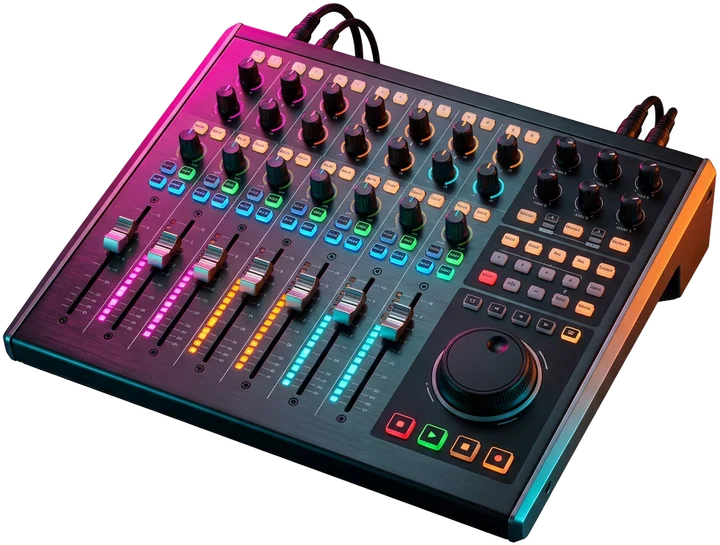
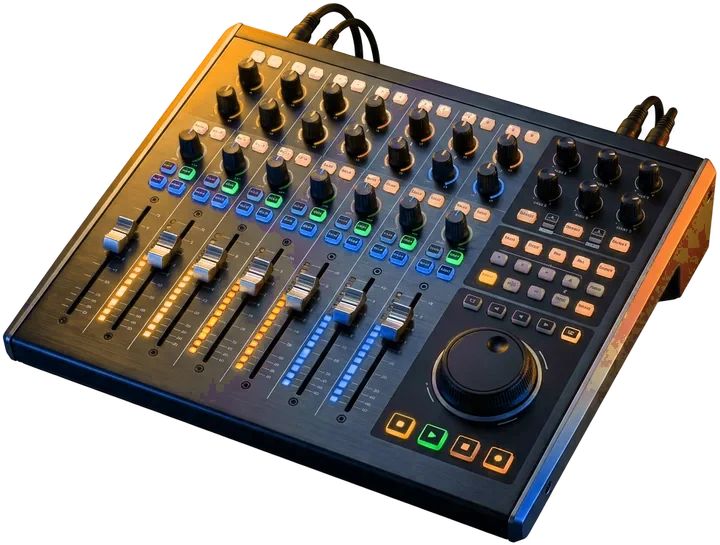
Boje novog logotipa: plava, zlatna i noćno plava; prebojani ukrasi, nova ikona
Claude-Session: https://claude.ai/code/session_013BurYVPoh5BVQFCK5Qgsnb

diff --git a/index.html b/index.html
@@ -7,19 +7,21 @@
 <meta property="og:title" content="Horizont LHB – video produkcija">
 <meta property="og:description" content="Promotivni videi, Reels, animacija logotipa i vizuali za firme. Od ideje do gotovog videa.">
 <meta property="og:image" content="og.jpg">
-<meta name="theme-color" content="#FFFFFF">
+<meta name="theme-color" content="#040A18">
 <link rel="icon" href="favicon.png">
 <title>Horizont LHB – video produkcija</title>
 <link rel="preconnect" href="https://fonts.googleapis.com">
 <link rel="stylesheet" href="https://fonts.googleapis.com/css2?family=Bricolage+Grotesque:opsz,wght@12..96,500;12..96,700;12..96,800&family=IBM+Plex+Sans:wght@400;500;600&family=IBM+Plex+Mono:wght@400;500&display=swap">
 <style>
-/* Isti raspored kao Horizont servisi, boje iz logotipa: noćno ljubičasta, zalazak (narančasta → ružičasta) i neonski cijan */
+/* Isti raspored kao Horizont servisi, boje iz logotipa: električno plava, zlatna/jantarna i noćno plava */
 :root{
   color-scheme:light;
-  --bg:#FFFFFF; --surface:#F7F2F5; --ink:#170A1A; --muted:#6A5B6D; --line:#E7DEE5; --field:#D8CCD7;
-  --hot:#FF2E6E; --hot-text:#D4145A; --sun:#FF9A1F; --cyan:#0A8C99; --cyan-soft:#E2F6F8; --on-hot:#1A0610;
-  --gtext:linear-gradient(100deg,#EA6A00 0%,#D4145A 100%);
-  --grad:linear-gradient(100deg,#FF9A1F 0%,#FF2E6E 100%);
+  --bg:#FFFFFF; --surface:#F3F6FC; --ink:#0B1424; --muted:#56627A; --line:#DFE6F1; --field:#C8D3E6;
+  --hot:#1E6BFF; --hot-text:#1559E0; --sun:#FFB020; --cyan:#A85F00; --cyan-soft:#FFF1D2; --on-hot:#0A1630;
+  --gtext:linear-gradient(100deg,#1559F5 0%,#1E8BFF 48%,#F09000 100%);
+  --grad:linear-gradient(100deg,#FFC94D 0%,#FF9500 100%);
+  --split:linear-gradient(90deg,#1E6BFF 0%,#4FA3FF 42%,#FFD27A 58%,#FF9500 100%);
+  --night:#040A18;
   --display:"Bricolage Grotesque",ui-sans-serif,system-ui,sans-serif;
   --body:"IBM Plex Sans",ui-sans-serif,system-ui,sans-serif;
   --mono:"IBM Plex Mono",ui-monospace,Menlo,monospace;
@@ -36,9 +38,9 @@ p{margin:0}
 .lbl{font:500 .72rem/1 var(--mono);letter-spacing:.12em;text-transform:uppercase;color:var(--muted)}
 .gt{background:var(--gtext);-webkit-background-clip:text;background-clip:text;color:transparent;font-style:normal}
 .btn{display:inline-flex;align-items:center;gap:.6em;background:var(--grad);color:var(--on-hot);font:600 1rem var(--body);text-decoration:none;padding:.9em 1.4em;border-radius:6px;border:0;cursor:pointer;transition:transform .15s,box-shadow .2s}
-.btn:hover{transform:translateY(-2px);box-shadow:0 10px 30px -10px rgba(255,46,110,.7)}
+.btn:hover{transform:translateY(-2px);box-shadow:0 12px 32px -10px rgba(255,149,0,.75)}
 .btn:focus-visible,a:focus-visible,button:focus-visible{outline:3px solid var(--cyan);outline-offset:3px}
-.btn.ghost{background:transparent;color:var(--ink);border:1.5px solid #CDBFCB;box-shadow:none}
+.btn.ghost{background:transparent;color:var(--ink);border:1.5px solid #BFCBE0;box-shadow:none}
 .btn.ghost:hover{border-color:var(--hot);background:var(--hot);color:var(--on-hot)}
 .btn:disabled{opacity:.45;cursor:not-allowed;transform:none}
 [hidden]{display:none!important}
@@ -63,8 +65,8 @@ nav a{text-decoration:none;color:var(--muted)} nav a:hover{color:var(--ink)}
 .banner video{display:block;width:100%;height:auto;aspect-ratio:1920/1070;max-height:min(80vh,1070px);object-fit:cover;object-position:50% 60%;background:#000}
 .banner::after{content:none}
 .vctl{position:absolute;right:max(16px,env(safe-area-inset-right,0px));bottom:18px;z-index:2;display:flex;gap:8px;line-height:1}
-.vbtn{background:rgba(11,7,16,.7);backdrop-filter:blur(6px);-webkit-backdrop-filter:blur(6px);border:1px solid #4A3A52;color:#FBF3F5;font:600 .85rem var(--body);padding:8px 14px;border-radius:999px;cursor:pointer}
-.vbtn:hover{border-color:#3EE6F2;color:#3EE6F2}
+.vbtn{background:rgba(4,10,24,.7);backdrop-filter:blur(6px);-webkit-backdrop-filter:blur(6px);border:1px solid #34466B;color:#F2F6FF;font:600 .85rem var(--body);padding:8px 14px;border-radius:999px;cursor:pointer}
+.vbtn:hover{border-color:#FFC23D;color:#FFC23D}
 
 /* hero */
 .hero .wrap{display:grid;grid-template-columns:1.25fr 1fr;gap:48px;padding-block:40px 64px;align-items:center}
@@ -74,8 +76,8 @@ nav a{text-decoration:none;color:var(--muted)} nav a:hover{color:var(--ink)}
 .facts{display:flex;gap:28px;flex-wrap:wrap;margin-top:36px}
 .facts b{display:block;font:800 1.6rem var(--display)}
 .facts span{font-size:.85rem;color:var(--muted)}
-.ticket{background:var(--surface);border:1px solid var(--line);border-radius:10px;padding:22px 22px 18px;font-family:var(--mono);font-size:.86rem;position:relative;box-shadow:0 24px 60px -30px rgba(212,20,90,.35);overflow:hidden;background:#fff}
-.ticket::before{content:"";position:absolute;left:0;right:0;top:0;height:4px;background:var(--grad)}
+.ticket{background:var(--surface);border:1px solid var(--line);border-radius:10px;padding:22px 22px 18px;font-family:var(--mono);font-size:.86rem;position:relative;box-shadow:0 24px 60px -30px rgba(30,107,255,.35);overflow:hidden;background:#fff}
+.ticket::before{content:"";position:absolute;left:0;right:0;top:0;height:4px;background:var(--split)}
 .ticket .top{display:flex;justify-content:space-between;align-items:center;border-bottom:1.5px dashed var(--line);padding-bottom:12px;margin-bottom:12px}
 .ticket .top b{font-family:var(--display);font-size:1.05rem}
 .tag{font:500 .68rem var(--mono);letter-spacing:.1em;text-transform:uppercase;background:var(--cyan-soft);color:var(--cyan);padding:4px 8px;border-radius:4px}
@@ -107,18 +109,18 @@ section{padding-block:72px}
 .svc p{color:var(--muted);font-size:.95rem}
 
 /* synthwave traka */
-.wave{position:relative;overflow:hidden;height:clamp(260px,32vw,420px);background:linear-gradient(#07040A 0%,#1A0820 55%,#07040A 56%);display:flex;align-items:flex-start}
-.wave .sun{position:absolute;left:50%;top:55%;width:clamp(170px,21vw,270px);aspect-ratio:1;transform:translate(-50%,-80%);border-radius:50%;background:linear-gradient(#FFB02E,#FF5A3C 45%,#FF2E6E 75%);
+.wave{position:relative;overflow:hidden;height:clamp(260px,32vw,420px);background:radial-gradient(ellipse 60% 55% at 50% 56%,rgba(255,170,40,.28),transparent 70%),linear-gradient(#030814 0%,#0B2557 55%,#040A18 56%);display:flex;align-items:flex-start}
+.wave .sun{position:absolute;left:50%;top:55%;width:clamp(170px,21vw,270px);aspect-ratio:1;transform:translate(-50%,-80%);border-radius:50%;background:linear-gradient(#FFF0C2,#FFC23D 40%,#FF8A00 78%);
   -webkit-mask:linear-gradient(#000 48%,transparent 48% 52%,#000 52% 60%,transparent 60% 64%,#000 64% 71%,transparent 71% 76%,#000 76% 82%,transparent 82% 88%,#000 88%);
   mask:linear-gradient(#000 48%,transparent 48% 52%,#000 52% 60%,transparent 60% 64%,#000 64% 71%,transparent 71% 76%,#000 76% 82%,transparent 82% 88%,#000 88%);
-  filter:drop-shadow(0 0 40px rgba(255,46,110,.55))}
-.wave .floor{position:absolute;left:-50%;right:-50%;top:56%;bottom:-40%;transform:perspective(320px) rotateX(62deg);transform-origin:top center;background-color:#07040A;
-  background-image:linear-gradient(rgba(62,230,242,.55) 1.5px,transparent 1.5px),linear-gradient(90deg,rgba(255,46,110,.5) 1.5px,transparent 1.5px);background-size:60px 46px;animation:floor 2.6s linear infinite}
-.wave .floor::after{content:"";position:absolute;inset:0;background:linear-gradient(#07040A,transparent 50%)}
+  filter:drop-shadow(0 0 40px rgba(30,107,255,.55))}
+.wave .floor{position:absolute;left:-50%;right:-50%;top:56%;bottom:-40%;transform:perspective(320px) rotateX(62deg);transform-origin:top center;background-color:#040A18;
+  background-image:linear-gradient(rgba(255,176,32,.5) 1.5px,transparent 1.5px),linear-gradient(90deg,rgba(60,140,255,.6) 1.5px,transparent 1.5px);background-size:60px 46px;animation:floor 2.6s linear infinite}
+.wave .floor::after{content:"";position:absolute;inset:0;background:linear-gradient(#040A18,transparent 50%)}
 @keyframes floor{to{background-position:0 46px}}
-.wave::before{content:"";position:absolute;left:0;right:0;top:56%;height:2px;background:var(--grad);box-shadow:0 0 18px 2px rgba(255,46,110,.6);z-index:1}
+.wave::before{content:"";position:absolute;left:0;right:0;top:56%;height:2px;background:var(--split);box-shadow:0 0 22px 3px rgba(79,163,255,.55);z-index:1}
 .wave .wrap{position:relative;z-index:2;width:100%;padding-top:clamp(28px,5vw,64px)}
-.wave .slog{color:#FBF3F5;font:800 clamp(1.8rem,4.4vw,3.2rem)/1.02 var(--display);letter-spacing:-.02em;max-width:13ch;filter:drop-shadow(0 4px 20px rgba(0,0,0,.9))}
+.wave .slog{color:#F2F6FF;font:800 clamp(1.8rem,4.4vw,3.2rem)/1.02 var(--display);letter-spacing:-.02em;max-width:13ch;filter:drop-shadow(0 4px 20px rgba(0,0,0,.9))}
 @media (max-width:700px){.wave .sun{left:72%}}
 @media (prefers-reduced-motion:reduce){.wave .floor,.rec::before{animation:none}}
 
@@ -128,7 +130,7 @@ section{padding-block:72px}
 .tab small{font-family:var(--mono);font-weight:400}
 .tab.on{background:var(--grad);color:var(--on-hot);border-color:transparent}
 .grid{display:grid;grid-template-columns:repeat(auto-fill,minmax(200px,1fr));gap:12px}
-.ph{aspect-ratio:1;border-radius:8px;overflow:hidden;cursor:pointer;background:#EDE4EB;border:0;padding:0;display:block}
+.ph{aspect-ratio:1;border-radius:8px;overflow:hidden;cursor:pointer;background:#E6ECF6;border:0;padding:0;display:block}
 .ph img{width:100%;height:100%;object-fit:cover;transition:transform .4s;display:block}
 .ph:hover img{transform:scale(1.05)}
 .cards{display:grid;grid-template-columns:repeat(auto-fill,minmax(260px,1fr));gap:16px}
@@ -136,7 +138,7 @@ section{padding-block:72px}
 .card{background:var(--bg);border:1px solid var(--line);border-radius:8px;overflow:hidden;cursor:pointer;text-align:left;padding:0;font:inherit;color:inherit;transition:border-color .2s}
 #video .card{background:var(--surface)}
 .card:hover{border-color:var(--hot)}
-.card .th{aspect-ratio:16/9;background:#EDE4EB center/cover no-repeat;position:relative;display:block}
+.card .th{aspect-ratio:16/9;background:#E6ECF6 center/cover no-repeat;position:relative;display:block}
 .pdf .card .th{aspect-ratio:3/4}
 .card .th::after{position:absolute;font:500 .7rem var(--mono);letter-spacing:.1em}
 .vid .th::after{content:"▶";inset:0;margin:auto;width:56px;height:56px;border-radius:50%;background:var(--grad);color:var(--on-hot);display:flex;align-items:center;justify-content:center;font-size:1.3rem;padding-left:4px}
@@ -146,9 +148,9 @@ section{padding-block:72px}
 .msg{color:var(--muted);padding:24px 0}
 .skel{animation:sk 1.2s infinite alternate}
 @keyframes sk{from{opacity:.55}to{opacity:1}}
-.soon{aspect-ratio:1;border-radius:8px;border:1px dashed #D3C4D0;display:flex;align-items:center;justify-content:center;font:500 .7rem var(--mono);letter-spacing:.12em;text-transform:uppercase;color:#9A8A9C;background:repeating-linear-gradient(135deg,transparent 0 12px,rgba(23,10,26,.025) 12px 24px)}
+.soon{aspect-ratio:1;border-radius:8px;border:1px dashed #C3CFE3;display:flex;align-items:center;justify-content:center;font:500 .7rem var(--mono);letter-spacing:.12em;text-transform:uppercase;color:#8592AA;background:repeating-linear-gradient(135deg,transparent 0 12px,rgba(8,20,45,.025) 12px 24px)}
 .cards .soon{aspect-ratio:16/10}.cards.pdf .soon{aspect-ratio:3/4}
-.modal{position:fixed;inset:0;background:rgba(7,4,10,.94);z-index:100;display:none;align-items:center;justify-content:center;padding:env(safe-area-inset-top,0px) env(safe-area-inset-right,0px) env(safe-area-inset-bottom,0px) env(safe-area-inset-left,0px)}
+.modal{position:fixed;inset:0;background:rgba(4,10,24,.94);z-index:100;display:none;align-items:center;justify-content:center;padding:env(safe-area-inset-top,0px) env(safe-area-inset-right,0px) env(safe-area-inset-bottom,0px) env(safe-area-inset-left,0px)}
 .modal.open{display:flex}
 .modal img{max-width:92vw;max-height:84vh;border-radius:6px}
 .modal iframe{width:min(1000px,94vw);height:86vh;border:0;border-radius:6px;background:#fff}
@@ -160,49 +162,49 @@ section{padding-block:72px}
 .dl{position:absolute;top:calc(18px + env(safe-area-inset-top,0px));left:calc(18px + env(safe-area-inset-left,0px));color:#fff;font-weight:600}
 
 /* VIDEO: kino sekcija s mozaikom */
-#video.cine{background:#07040A;color:#FBF3F5;position:relative;overflow:hidden}
-#video.cine::before{content:"";position:absolute;inset:auto -10% -40% -10%;height:70%;background:radial-gradient(ellipse at center,rgba(255,46,110,.22),transparent 65%);pointer-events:none}
+#video.cine{background:#040A18;color:#F2F6FF;position:relative;overflow:hidden}
+#video.cine::before{content:"";position:absolute;inset:auto -10% -40% -10%;height:70%;background:radial-gradient(ellipse at center,rgba(30,107,255,.22),transparent 65%);pointer-events:none}
 #video.cine .wrap{position:relative}
-.cine .sec-head p,.cine .lbl{color:#AE9FB0}
-.cine .tab{background:#140D19;border-color:#2C2133;color:#AE9FB0}
+.cine .sec-head p,.cine .lbl{color:#9AA8C2}
+.cine .tab{background:#140D19;border-color:#1C2A47;color:#9AA8C2}
 .cine .tab.on{background:var(--grad);color:var(--on-hot);border-color:transparent}
-.cine .btn.ghost{color:#FBF3F5;border-color:#4A3A52}
+.cine .btn.ghost{color:#F2F6FF;border-color:#34466B}
 .mz{display:grid;grid-template-columns:repeat(auto-fill,minmax(170px,1fr));grid-auto-rows:112px;grid-auto-flow:dense;gap:10px}
-.mt{position:relative;overflow:hidden;border-radius:12px;border:0;padding:0;margin:0;cursor:pointer;background:#1A1020;color:#fff;text-align:left;font:inherit;grid-row:span 2;
+.mt{position:relative;overflow:hidden;border-radius:12px;border:0;padding:0;margin:0;cursor:pointer;background:#0E1A33;color:#fff;text-align:left;font:inherit;grid-row:span 2;
   opacity:0;transform:translateY(28px) scale(.94);transition:opacity .7s ease,transform .7s cubic-bezier(.2,.8,.2,1);isolation:isolate}
 .mt.in{opacity:1;transform:none}
 .mt.w{grid-column:span 2;grid-row:span 2}
 .mt.t{grid-row:span 3}
 .mt.f{grid-column:span 3;grid-row:span 3}
-.mt .bg{position:absolute;inset:-6%;background:#1A1020 center/cover no-repeat;animation:kb var(--d,16s) ease-in-out var(--dl,0s) infinite alternate;transition:filter .4s}
+.mt .bg{position:absolute;inset:-6%;background:#0E1A33 center/cover no-repeat;animation:kb var(--d,16s) ease-in-out var(--dl,0s) infinite alternate;transition:filter .4s}
 @keyframes kb{from{transform:scale(1.02) translate(0,0)}to{transform:scale(1.16) translate(var(--x,3%),var(--y,-2%))}}
-.mt::after{content:"";position:absolute;inset:0;background:linear-gradient(180deg,transparent 40%,rgba(7,4,10,.88));z-index:1;transition:opacity .4s}
-.mt::before{content:"";position:absolute;inset:0;border-radius:12px;padding:2px;background:var(--grad);-webkit-mask:linear-gradient(#000 0 0) content-box,linear-gradient(#000 0 0);-webkit-mask-composite:xor;mask-composite:exclude;opacity:0;transition:opacity .3s;z-index:3;pointer-events:none}
+.mt::after{content:"";position:absolute;inset:0;background:linear-gradient(180deg,transparent 40%,rgba(4,10,24,.88));z-index:1;transition:opacity .4s}
+.mt::before{content:"";position:absolute;inset:0;border-radius:12px;padding:2px;background:var(--split);-webkit-mask:linear-gradient(#000 0 0) content-box,linear-gradient(#000 0 0);-webkit-mask-composite:xor;mask-composite:exclude;opacity:0;transition:opacity .3s;z-index:3;pointer-events:none}
 .mt:hover::before,.mt:focus-visible::before{opacity:1}
 .mt:focus-visible{outline:none}
 .mt:hover .bg{filter:saturate(1.25) brightness(1.08)}
 .mt .pl{position:absolute;z-index:2;left:50%;top:50%;width:54px;height:54px;margin:-27px 0 0 -27px;border-radius:50%;background:rgba(255,255,255,.16);backdrop-filter:blur(6px);-webkit-backdrop-filter:blur(6px);display:flex;align-items:center;justify-content:center;font-size:1.05rem;padding-left:3px;transition:transform .35s cubic-bezier(.2,.8,.2,1),background .3s,color .3s;box-shadow:0 0 0 1px rgba(255,255,255,.25)}
-.mt:hover .pl,.mt:focus-visible .pl{transform:scale(1.25);background:var(--grad);color:var(--on-hot);box-shadow:0 0 30px rgba(255,46,110,.7)}
+.mt:hover .pl,.mt:focus-visible .pl{transform:scale(1.25);background:var(--grad);color:var(--on-hot);box-shadow:0 0 30px rgba(30,107,255,.7)}
 .mt.f .pl{width:72px;height:72px;margin:-36px 0 0 -36px;font-size:1.4rem}
 .mt .meta{position:absolute;left:12px;right:12px;bottom:10px;z-index:2;display:flex;justify-content:space-between;gap:8px;align-items:flex-end}
 .mt .meta b{font:700 .95rem/1.2 var(--display);overflow-wrap:anywhere;text-shadow:0 2px 10px rgba(0,0,0,.6)}
 .mt.f .meta b{font-size:1.3rem}
 .mt .dur{font:500 .7rem var(--mono);background:rgba(0,0,0,.6);padding:3px 6px;border-radius:4px;flex:none}
-.mt.soon{display:flex;align-items:center;justify-content:center;font:500 .7rem var(--mono);letter-spacing:.12em;text-transform:uppercase;color:#6E5E72;border:1px dashed #3D2E46;background:repeating-linear-gradient(135deg,transparent 0 12px,rgba(255,255,255,.02) 12px 24px);cursor:default;aspect-ratio:auto}
+.mt.soon{display:flex;align-items:center;justify-content:center;font:500 .7rem var(--mono);letter-spacing:.12em;text-transform:uppercase;color:#5E6B85;border:1px dashed #2A3A5C;background:repeating-linear-gradient(135deg,transparent 0 12px,rgba(255,255,255,.02) 12px 24px);cursor:default;aspect-ratio:auto}
 .mt.soon::before,.mt.soon::after{content:none}
 /* player + okretanje */
-.vwrap{position:relative;width:min(1000px,94vw);aspect-ratio:16/9;max-height:84vh;background:#000;border-radius:10px;overflow:hidden;box-shadow:0 0 0 1px #2C2133,0 40px 120px -20px rgba(255,46,110,.5)}
+.vwrap{position:relative;width:min(1000px,94vw);aspect-ratio:16/9;max-height:84vh;background:#000;border-radius:10px;overflow:hidden;box-shadow:0 0 0 1px #1C2A47,0 40px 120px -20px rgba(30,107,255,.5)}
 .vwrap.tall{width:auto;height:min(84vh,900px);aspect-ratio:9/16;max-width:94vw}
 .modal #mVidEl{position:absolute;inset:0;width:100%;height:100%;max-height:none;border:0;border-radius:0;background:transparent;opacity:0;transition:opacity .45s}
 .modal #mVidEl.on{opacity:1}
-.spin{position:absolute;left:50%;top:50%;width:64px;height:64px;margin:-32px 0 0 -32px;border-radius:50%;background:conic-gradient(from 0deg,transparent 0 20%,#FF9A1F 60%,#FF2E6E);-webkit-mask:radial-gradient(farthest-side,transparent calc(100% - 6px),#000 calc(100% - 5px));mask:radial-gradient(farthest-side,transparent calc(100% - 6px),#000 calc(100% - 5px));animation:spin .9s linear infinite}
+.spin{position:absolute;left:50%;top:50%;width:64px;height:64px;margin:-32px 0 0 -32px;border-radius:50%;background:conic-gradient(from 0deg,transparent 0 20%,#1E6BFF 55%,#FFC23D);-webkit-mask:radial-gradient(farthest-side,transparent calc(100% - 6px),#000 calc(100% - 5px));mask:radial-gradient(farthest-side,transparent calc(100% - 6px),#000 calc(100% - 5px));animation:spin .9s linear infinite}
 @keyframes spin{to{transform:rotate(360deg)}}
 #mVid.flipping .vwrap,#mVid.flipping .nv,#mVid.flipping .cap{opacity:0}
 #mVid{transition:background .4s}
 .flip{position:fixed;z-index:101;transform-style:preserve-3d;transform-origin:center;pointer-events:none;will-change:transform}
 .flip .fc,.flip .bc{position:absolute;inset:0;border-radius:inherit;backface-visibility:hidden;-webkit-backface-visibility:hidden;overflow:hidden}
-.flip .fc{background:#1A1020 center/cover no-repeat;box-shadow:0 30px 80px -20px rgba(255,46,110,.6)}
-.flip .bc{background:#000;transform:rotateY(180deg);box-shadow:0 0 0 1px #2C2133,0 40px 120px -20px rgba(255,46,110,.5)}
+.flip .fc{background:#0E1A33 center/cover no-repeat;box-shadow:0 30px 80px -20px rgba(30,107,255,.6)}
+.flip .bc{background:#000;transform:rotateY(180deg);box-shadow:0 0 0 1px #1C2A47,0 40px 120px -20px rgba(30,107,255,.5)}
 #vCap{color:#ccc}
 #mVid .nv{z-index:2}
 @media (max-width:700px){#mVid .nv{top:auto;bottom:calc(52px + env(safe-area-inset-bottom,0px));transform:none;width:46px;height:46px}#mVid .nv.l{left:calc(50% - 58px)}#mVid .nv.r{right:calc(50% - 58px)}}
@@ -218,14 +220,15 @@ section{padding-block:72px}
 /* UKRASI: oprema na prozirnoj pozadini, lagano lebdi iza sadržaja */
 .has-deco{position:relative;overflow:clip}
 .has-deco>.wrap{position:relative;z-index:1}
-.deco{position:absolute;z-index:0;pointer-events:none;user-select:none;height:auto;filter:drop-shadow(0 28px 34px rgba(23,10,26,.22));animation:float var(--fd,8s) ease-in-out infinite;transform:rotate(var(--r,0deg))}
+.deco{position:absolute;z-index:0;pointer-events:none;user-select:none;height:auto;filter:drop-shadow(0 28px 34px rgba(8,20,45,.22));animation:float var(--fd,8s) ease-in-out infinite;transform:rotate(var(--r,0deg))}
 @keyframes float{0%,100%{transform:translateY(0) rotate(var(--r,0deg))}50%{transform:translateY(-14px) rotate(calc(var(--r,0deg) + 2deg))}}
 .d-kam{width:clamp(220px,27vw,380px);right:max(-30px,calc(50% - 600px));top:34px;--r:-7deg;--fd:9s}
 .d-mic{width:clamp(130px,15vw,210px);right:max(-20px,calc(50% - 640px));top:-40px;--r:14deg;--fd:7s}
-.d-slu{width:clamp(150px,20vw,280px);right:max(10px,calc(50% - 600px));top:12%;--r:-12deg;--fd:8.5s;z-index:3;filter:drop-shadow(0 0 40px rgba(255,46,110,.35)) drop-shadow(0 20px 30px rgba(0,0,0,.6))}
+.d-slu{width:clamp(150px,20vw,280px);right:max(10px,calc(50% - 600px));top:12%;--r:-12deg;--fd:8.5s;z-index:3;filter:drop-shadow(0 0 40px rgba(30,107,255,.35)) drop-shadow(0 20px 30px rgba(0,0,0,.6))}
 .d-kla{width:clamp(130px,15vw,210px);right:max(10px,calc(50% - 590px));top:36px;--r:9deg;--fd:7.5s}
 .d-mix{width:clamp(260px,30vw,420px);right:max(-90px,calc(50% - 700px));top:46%;--r:-6deg;--fd:10s}
 .hero .ticket{position:relative;z-index:1}
+.hero{background:radial-gradient(ellipse 45% 60% at 8% 30%,rgba(30,107,255,.08),transparent 70%),radial-gradient(ellipse 40% 55% at 92% 40%,rgba(255,176,32,.12),transparent 70%)}
 .hero .wrap{padding-top:clamp(40px,9vw,130px)}
 @media (max-width:900px){
   .d-kam{width:34vw;top:14px;right:-4vw}
@@ -240,8 +243,8 @@ section{padding-block:72px}
 
 
 /* STUDIO: montažer preko cijele širine */
-.studio{position:relative;padding:clamp(40px,6vw,80px) 0 0;overflow:clip;background:radial-gradient(ellipse 60% 70% at 62% 60%,rgba(255,46,110,.10),transparent 70%),radial-gradient(ellipse 40% 50% at 85% 40%,rgba(10,140,153,.10),transparent 70%)}
-.st-img{display:block;width:100%;max-width:1600px;height:auto;margin:0 auto;position:relative;z-index:0;-webkit-mask-image:linear-gradient(#000 82%,transparent);mask-image:linear-gradient(#000 82%,transparent);filter:drop-shadow(0 30px 50px rgba(23,10,26,.18))}
+.studio{position:relative;padding:clamp(40px,6vw,80px) 0 0;overflow:clip;background:radial-gradient(ellipse 60% 70% at 62% 60%,rgba(30,107,255,.10),transparent 70%),radial-gradient(ellipse 40% 50% at 85% 40%,rgba(255,176,32,.10),transparent 70%)}
+.st-img{display:block;width:100%;max-width:1600px;height:auto;margin:0 auto;position:relative;z-index:0;-webkit-mask-image:linear-gradient(#000 82%,transparent);mask-image:linear-gradient(#000 82%,transparent);filter:drop-shadow(0 30px 50px rgba(8,20,45,.18))}
 .st-txt{position:absolute;left:0;right:0;top:clamp(40px,6vw,80px);z-index:1;pointer-events:none}
 .st-txt>div{max-width:min(30ch,26vw);display:grid;gap:12px;pointer-events:auto}
 @media (min-width:901px){.st-img{width:86%;max-width:1400px;margin-right:0;margin-left:auto}}
@@ -260,13 +263,13 @@ section{padding-block:72px}
 /* postupak */
 .steps{display:grid;grid-template-columns:repeat(4,1fr);gap:16px;counter-reset:s}
 .step{display:grid;gap:10px;align-content:start;padding-top:16px;position:relative}
-.step::after{content:"";position:absolute;left:0;right:0;top:0;height:3px;background:var(--grad);border-radius:2px}
+.step::after{content:"";position:absolute;left:0;right:0;top:0;height:3px;background:var(--split);border-radius:2px}
 .step::before{counter-increment:s;content:"0" counter(s);font:500 .8rem var(--mono);color:var(--cyan)}
 .step p{color:var(--muted);font-size:.93rem}
 
 /* obrazac za ponudu */
-.wiz{background:#fff;box-shadow:0 30px 70px -45px rgba(23,10,26,.35);border:1px solid var(--line);border-radius:10px;padding:clamp(20px,4vw,40px);max-width:860px;display:grid;gap:22px;position:relative;overflow:hidden}
-.wiz::before{content:"";position:absolute;left:0;right:0;top:0;height:4px;background:var(--grad)}
+.wiz{background:#fff;box-shadow:0 30px 70px -45px rgba(8,20,45,.35);border:1px solid var(--line);border-radius:10px;padding:clamp(20px,4vw,40px);max-width:860px;display:grid;gap:22px;position:relative;overflow:hidden}
+.wiz::before{content:"";position:absolute;left:0;right:0;top:0;height:4px;background:var(--split)}
 .row2{display:grid;grid-template-columns:1fr 1fr;gap:18px}
 .fld{border:0;margin:0;padding:0;display:grid;gap:8px;min-width:0}
 .fld legend,.fld>label{font-weight:600;padding:0;margin-bottom:2px}
@@ -275,7 +278,7 @@ section{padding-block:72px}
 .fh{color:var(--muted);font-size:.88rem;font-weight:400}
 .fld input[type=text],.fld input[type=email],.fld input[type=tel],.fld input[type=date],.fld textarea{width:100%;background:#fff;border:1.5px solid var(--field);color:var(--ink);padding:12px 14px;border-radius:7px;font:inherit;min-width:0}
 .fld textarea{resize:vertical;min-height:110px}
-.fld input:focus,.fld textarea:focus{outline:none;border-color:var(--hot);box-shadow:0 0 0 3px rgba(255,46,110,.15)}
+.fld input:focus,.fld textarea:focus{outline:none;border-color:var(--hot);box-shadow:0 0 0 3px rgba(30,107,255,.15)}
 .chips{display:flex;flex-wrap:wrap;gap:8px}
 .chip{position:relative}
 .chip input{position:absolute;opacity:0;inset:0;margin:0;cursor:pointer}
@@ -303,7 +306,7 @@ section{padding-block:72px}
 .k-share{display:grid;gap:8px;padding-top:18px;border-top:1px solid var(--line)}
 .k-sh-t{color:var(--muted);font-size:.95rem}
 .k-logo{display:grid;gap:18px;justify-items:center;text-align:center}
-.k-logo img{width:100%;max-width:560px;height:auto;border-radius:12px;background:#000;box-shadow:0 30px 80px -40px rgba(255,46,110,.6)}
+.k-logo img{width:100%;max-width:560px;height:auto;border-radius:12px;background:#000;box-shadow:0 30px 80px -40px rgba(30,107,255,.6)}
 .k-logo .slog{font:800 clamp(1.7rem,3.6vw,2.6rem)/1.05 var(--display);letter-spacing:-.02em}
 
 footer{border-top:1px solid var(--line);padding-block:28px;color:var(--muted);font-size:.85rem;margin-top:72px}
